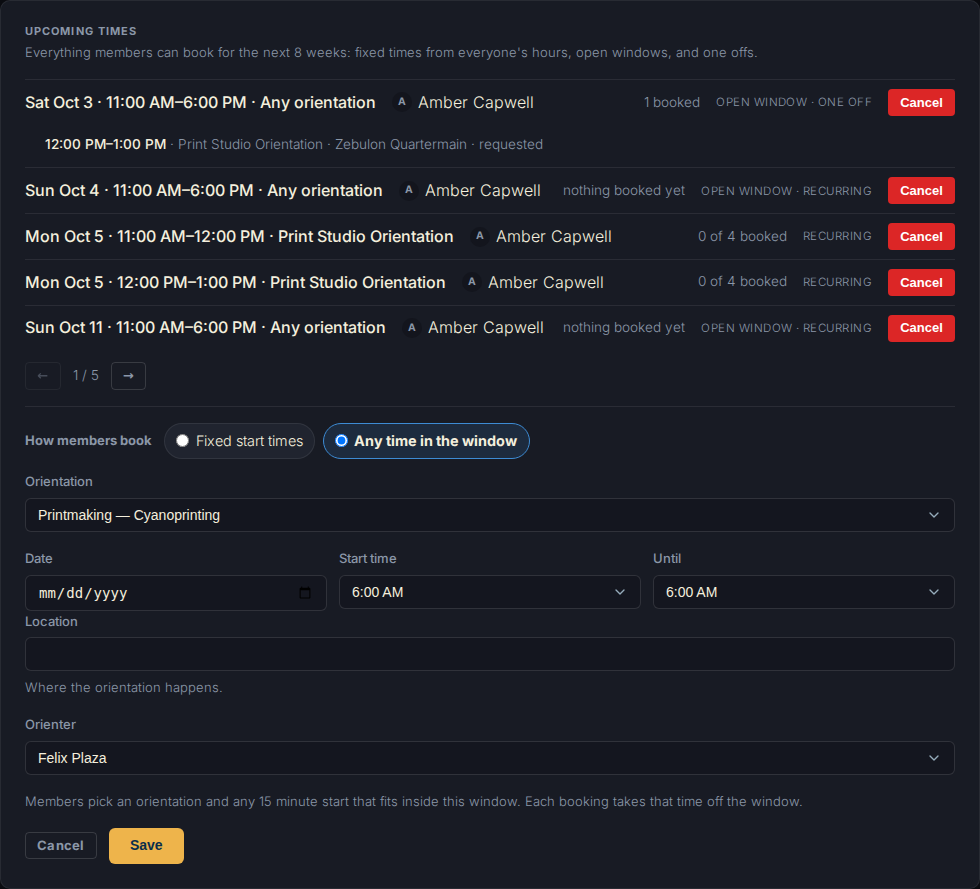
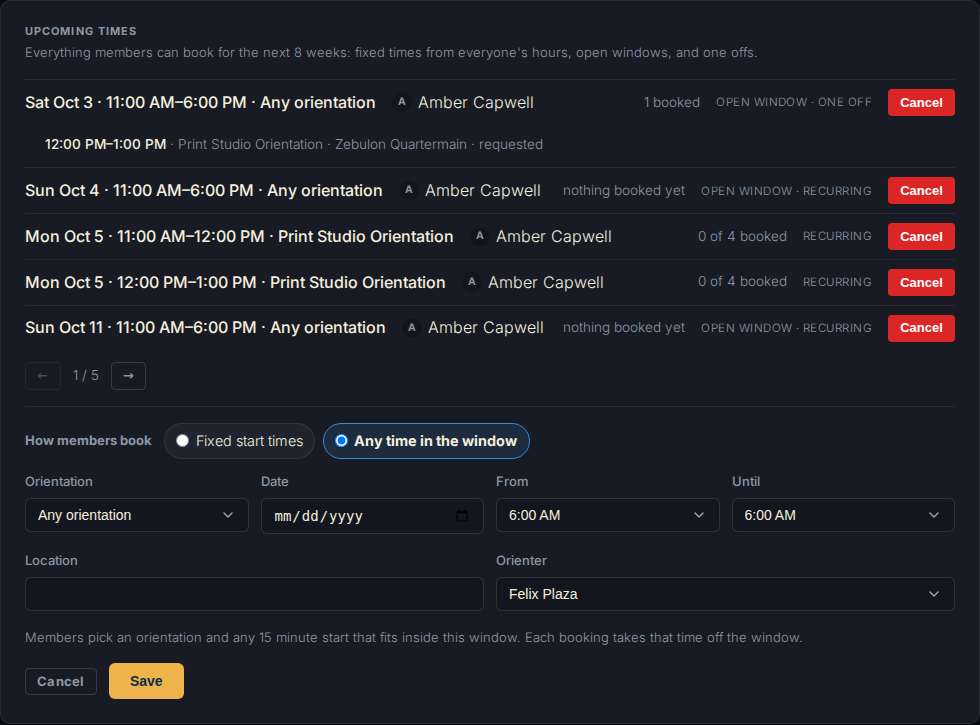
Edit Hours rows and Add a one off match the approved mockups
Labels Day, From, Until and Active, no per field hints (form_field gains
field_hint_off), orientations listed by name, Location and Orienter on one
line, and the hours lines spaced as drawn.

Claude-Session: https://claude.ai/code/session_01MKMrsQt9PDCVr7VQ5ScN3n

diff --git a/templates/hub/partials/_orienter_hours_row.html b/templates/hub/partials/_orienter_hours_row.html
@@ -4,7 +4,8 @@ hours button clones. Context: rule (an OrientationAvailabilityForm), offer_open 
 members book; a guild staffer's own rows), target (the person, or None for shared rows).
 
 The row's Alpine state is its booking style. The fixed only fields (Seats, Slot length,
-Break) and the two hints follow it in place; their layout lives in classes so x-show can
+Break) and the two hints follow it in place. Labels and the absence of per field hints follow
+the approved mockup (mockups/532-orientation-open-windows.html, 03); their layout lives in classes so x-show can
 toggle display (FRONTEND.md rule 12). Hidden fields still POST, and the form's clean drops
 them for an open row.
 {% endcomment %}
@@ -18,25 +19,25 @@ them for an open row.
   {% if rule.booking_style.errors %}<ul class="pl-field-errors">{% for error in rule.booking_style.errors %}<li class="pl-field-error">{{ error }}</li>{% endfor %}</ul>{% endif %}
   {% endif %}
   <div class="pl-hours-row__line">
-    <div>{% include "components/form_field.html" with field=rule.orientation_type %}</div>
-    <div>{% include "components/form_field.html" with field=rule.weekday %}</div>
-    <div class="pl-hours-row__narrow">{% include "components/form_field.html" with field=rule.start_time %}</div>
-    <div class="pl-hours-row__narrow">{% include "components/form_field.html" with field=rule.end_time %}</div>
-    <div class="pl-hours-row__narrow" x-show="style === 'fixed'">{% include "components/form_field.html" with field=rule.seats %}</div>
+    <div>{% include "components/form_field.html" with field=rule.orientation_type field_hint_off=True %}</div>
+    <div>{% include "components/form_field.html" with field=rule.weekday field_label="Day" field_hint_off=True %}</div>
+    <div class="pl-hours-row__narrow">{% include "components/form_field.html" with field=rule.start_time field_label="From" field_hint_off=True %}</div>
+    <div class="pl-hours-row__narrow">{% include "components/form_field.html" with field=rule.end_time field_label="Until" field_hint_off=True %}</div>
+    <div class="pl-hours-row__narrow" x-show="style === 'fixed'">{% include "components/form_field.html" with field=rule.seats field_hint_off=True %}</div>
   </div>
   <div class="pl-hours-row__line">
-    <div>{% include "components/form_field.html" with field=rule.cadence %}</div>
-    <div>{% include "components/form_field.html" with field=rule.anchor_date %}</div>
+    <div>{% include "components/form_field.html" with field=rule.cadence field_hint_off=True %}</div>
+    <div>{% include "components/form_field.html" with field=rule.anchor_date field_hint_off=True %}</div>
   </div>
   <div class="pl-hours-row__line" x-show="style === 'fixed'">
-    <div>{% include "components/form_field.html" with field=rule.slot_minutes %}</div>
-    <div>{% include "components/form_field.html" with field=rule.buffer_minutes %}</div>
+    <div>{% include "components/form_field.html" with field=rule.slot_minutes field_hint_off=True %}</div>
+    <div>{% include "components/form_field.html" with field=rule.buffer_minutes field_hint_off=True %}</div>
   </div>
   <p class="pl-hours-row__hint" x-show="style === 'fixed'">Leave slot length blank to offer the whole window as one slot.</p>
   {% if offer_open %}
   <p class="pl-hours-row__hint" x-show="style === 'open'">Members pick an orientation and any 15 minute start that fits inside these hours. Each booking takes that time off the window.</p>
   {% endif %}
-  {% include "components/form_field.html" with field=rule.is_active %}
+  {% include "components/form_field.html" with field=rule.is_active field_label="Active" field_hint_off=True %}
   {% if rule.instance.pk %}
     {# Delete confirms first (it retires future open slots or windows), then flips DELETE and submits the modal form. #}
     <div hidden>{{ rule.DELETE }}</div>

diff --git a/templates/hub/guild_edit.html b/templates/hub/guild_edit.html
@@ -759,20 +759,23 @@ confirm modal carries its own POST form, and template content can't nest a form.
             <span class="pl-booking-style__label">How members book</span>
             {% for radio in slot_form.booking_style %}<label class="pl-chip" for="{{ radio.id_for_label }}">{{ radio.tag }} {{ radio.choice_label }}</label>{% endfor %}
           </div>
-          {% include "components/form_field.html" with field=slot_form.orientation_type %}
           <div class="pl-hours-row__line">
-            <div>{% include "components/form_field.html" with field=slot_form.date %}</div>
-            <div class="pl-hours-row__narrow">{% include "components/form_field.html" with field=slot_form.start_time %}</div>
-            <div class="pl-hours-row__narrow" x-show="style === 'fixed'">{% include "components/form_field.html" with field=slot_form.duration_minutes %}</div>
-            <div class="pl-hours-row__narrow" x-show="style === 'fixed'">{% include "components/form_field.html" with field=slot_form.seats %}</div>
-            <div class="pl-hours-row__narrow" x-show="style === 'open'">{% include "components/form_field.html" with field=slot_form.end_time %}</div>
+            <div>{% include "components/form_field.html" with field=slot_form.orientation_type field_hint_off=True %}</div>
+            <div>{% include "components/form_field.html" with field=slot_form.date field_hint_off=True %}</div>
+            <div class="pl-hours-row__narrow">{% include "components/form_field.html" with field=slot_form.start_time field_label="From" field_hint_off=True %}</div>
+            <div class="pl-hours-row__narrow" x-show="style === 'fixed'">{% include "components/form_field.html" with field=slot_form.duration_minutes field_hint_off=True %}</div>
+            <div class="pl-hours-row__narrow" x-show="style === 'fixed'">{% include "components/form_field.html" with field=slot_form.seats field_hint_off=True %}</div>
+            <div class="pl-hours-row__narrow" x-show="style === 'open'">{% include "components/form_field.html" with field=slot_form.end_time field_label="Until" field_hint_off=True %}</div>
           </div>
-          {% include "components/form_field.html" with field=slot_form.location %}
           {% if slot_form_locked %}
+          {% include "components/form_field.html" with field=slot_form.location field_hint_off=True %}
           {{ slot_form.orienter }}
           <p class="pl-hours-row__hint">Runs with: you</p>
           {% else %}
-          {% include "components/form_field.html" with field=slot_form.orienter %}
+          <div class="pl-hours-row__line">
+            <div>{% include "components/form_field.html" with field=slot_form.location field_hint_off=True %}</div>
+            <div>{% include "components/form_field.html" with field=slot_form.orienter field_hint_off=True %}</div>
+          </div>
           {% endif %}
           <p class="pl-hours-row__hint" x-show="style === 'open'">Members pick an orientation and any 15 minute start that fits inside this window. Each booking takes that time off the window.</p>
           <div class="pl-oneoff__actions">

diff --git a/templates/components/form_field.html b/templates/components/form_field.html
@@ -5,12 +5,18 @@ Parameters (pass via {% include ... with %}):
   field       — required, Django form field
   field_label — optional, label override (defaults to field.label)
   field_hint  — optional, hint text (defaults to field.help_text)
+  field_hint_off — optional, True renders no hint at all, for a compact row whose fields
+                explain themselves (the Edit Hours rows)
   field_label_x_text — optional, an Alpine expression the label text follows (x-text) once
                 Alpine runs, for a label that changes with another control; the server
                 label stays as the text until then and for anything without Alpine.
 {% endcomment %}
 {% if field.field.widget.input_type == "checkbox" %}
+    {% if field_hint_off %}
+    {% include "components/toggle.html" with field=field toggle_label=field_label|default:field.label %}
+    {% else %}
     {% include "components/toggle.html" with field=field toggle_label=field_label|default:field.label toggle_description=field_hint|default:field.help_text %}
+    {% endif %}
 {% elif field.field.widget.input_type == "color" or field.field.widget.attrs.type == "color" or "pl-color-input" in field.field.widget.attrs.class %}
     <div class="pl-form-group">
         <label for="{{ field.id_for_label }}" class="pl-form-label">
@@ -39,7 +45,8 @@ Parameters (pass via {% include ... with %}):
         {% endfor %}
     </ul>
     {% endif %}
-    {% if field_hint %}
+    {% if field_hint_off %}
+    {% elif field_hint %}
     <p class="pl-field-hint">{{ field_hint }}</p>
     {% elif field.help_text %}
     <p class="pl-field-hint">{{ field.help_text }}</p>

diff --git a/templates/hub/partials/_orienter_hours_modal_form.html b/templates/hub/partials/_orienter_hours_modal_form.html
@@ -17,7 +17,7 @@ Each row is hub/partials/_orienter_hours_row.html, bound rows and the cloned emp
 {% endcomment %}
 {% if target %}
 <h2 class="hub-detail-label" style="margin-top:0; margin-bottom:0.25rem;">Editing {{ target.display_name }}'s Hours</h2>
-<p class="hub-text-muted" style="font-size:0.8125rem; margin-bottom:1rem;">Recurring hours when {{ target.display_name }} can give orientations, weekly, every other week, or monthly and beyond.{% if offer_open %} Each row is either fixed start times or any time in the window.{% else %} We turn them into bookable slots automatically.{% endif %} Members book them by name.</p>
+<p class="hub-text-muted" style="font-size:0.8125rem; margin-bottom:1rem;">Recurring hours when {{ target.display_name }} can give orientations, weekly, every other week, or monthly and beyond.{% if not offer_open %} We turn them into bookable slots automatically.{% endif %} Members book them by name.</p>
 {% else %}
 <h2 class="hub-detail-label" style="margin-top:0; margin-bottom:0.25rem;">Editing Shared Hours</h2>
 <p class="hub-text-muted" style="font-size:0.8125rem; margin-bottom:1rem;">Shared weekly windows any manager can run. Keep, edit, or retire them; new recurring hours belong to a person.</p>

diff --git a/static/css/hub.css b/static/css/hub.css
@@ -4192,7 +4192,7 @@ mark { background: color-mix(in srgb, var(--color-tuscan-yellow) 30%, transparen
 .pl-booking-style { display: flex; align-items: center; gap: 0.5rem; flex-wrap: wrap; margin-bottom: 0.75rem; }
 .pl-booking-style__label { font-size: 0.8125rem; font-weight: 600; color: var(--hub-text-muted); margin-right: 0.25rem; }
 .pl-hours-row { padding: 1rem; background: var(--hub-surface); border: 1px solid var(--hub-border); border-radius: 10px; }
-.pl-hours-row__line { display: flex; gap: 0.75rem; flex-wrap: wrap; }
+.pl-hours-row__line { display: flex; gap: 0.75rem; flex-wrap: wrap; margin-bottom: 1rem; }
 .pl-hours-row__line > * { flex: 1; min-width: 120px; }
 .pl-hours-row__line > .pl-hours-row__narrow { min-width: 90px; }
 .pl-hours-row__hint { font-size: 0.8125rem; color: var(--hub-text-muted); margin: 0 0 0.5rem; }

diff --git a/tests/hub/orientation_open_windows_editor_spec.py b/tests/hub/orientation_open_windows_editor_spec.py
@@ -5,6 +5,7 @@ cancelling a window from the tab."""
 
 from __future__ import annotations
 
+import re
 from datetime import timedelta
 
 import pytest
@@ -99,6 +100,23 @@ def describe_edit_hours_modal_choice():
         assert 'x-model="style"' in content
         assert "Any orientation" in content  # the type select's empty choice
         assert "x-show=\"style === 'fixed'\"" in content
+
+    def it_draws_the_rows_as_the_mockup_does(client: Client):
+        user, guild = _lead("ch3")
+        amber = _staffer(guild)
+        OrientationAvailabilityFactory(guild=guild, orienter=amber, orientation_type=guild.orientation_types.first())
+        client.login(username="ch3", password="pass")
+        content = client.get(
+            f"{reverse('hub_guild_orientation_hours_form', args=[guild.pk])}?orienter={amber.pk}"
+        ).content.decode()
+        for label in ("Day", "From", "Until", "Active"):
+            assert re.search(rf">\s*{label}\s*<", content), label
+        assert "pl-field-hint" not in content
+        assert "Generate slots from this rule." not in content
+        assert (
+            '<option value="{}" selected>Print Studio Orientation</option>'.format(guild.orientation_types.first().pk)
+            in content
+        )
 
     def it_keeps_the_legacy_shared_rows_fixed(client: Client):
         user, guild = _lead("ch2")
@@ -239,6 +257,16 @@ def describe_upcoming_times_card():
         assert "open window · recurring" in content
         assert "nothing booked yet" in content
         assert rule.windows.count() == 8
+
+    def it_lays_the_one_off_form_out_as_the_mockup_does(client: Client):
+        user, guild = _lead("ut4")
+        client.login(username="ut4", password="pass")
+        content = client.get(_tab(guild)).content.decode()
+        oneoff = content[content.index('class="pl-oneoff"') :]
+        oneoff = oneoff[: oneoff.index("</form>")]
+        assert re.search(r">\s*From\s*<", oneoff) and re.search(r">\s*Until\s*<", oneoff)
+        assert "pl-field-hint" not in oneoff
+        assert ">Print Studio Orientation</option>" in oneoff
 
     def it_shows_the_empty_state(client: Client):
         user, guild = _lead("ut3")

diff --git a/hub/forms.py b/hub/forms.py
@@ -2447,6 +2447,13 @@ def _append_duration_choice(field: forms.Field, minutes: int) -> None:
         choice_field.choices = [*choices, (key, _duration_choice_label(minutes))]
 
 
+class _OrientationTypeNameField(forms.ModelChoiceField):
+    """An orientation picker labeled by name alone; the guild is the page it sits on (#532)."""
+
+    def label_from_instance(self, obj: Any) -> str:
+        return str(obj.name)
+
+
 class OrientationAvailabilityForm(forms.ModelForm):
     """A single recurring orientation-availability row, for a guild or an equipment owner.
 
@@ -2530,6 +2537,7 @@ class OrientationAvailabilityForm(forms.ModelForm):
             "is_active",
         ]
         labels = {"orientation_type": "Orientation"}
+        field_classes = {"orientation_type": _OrientationTypeNameField}
 
     def __init__(
         self,
@@ -2663,7 +2671,7 @@ class OrientationSlotForm(forms.ModelForm):
     duration_minutes = forms.TypedChoiceField(
         coerce=int, required=False, choices=_SLOT_DURATION_CHOICES, initial="60", label="Duration"
     )
-    orientation_type = forms.ModelChoiceField(
+    orientation_type = _OrientationTypeNameField(
         queryset=OrientationType.objects.none(),
         required=False,
         label="Orientation",
